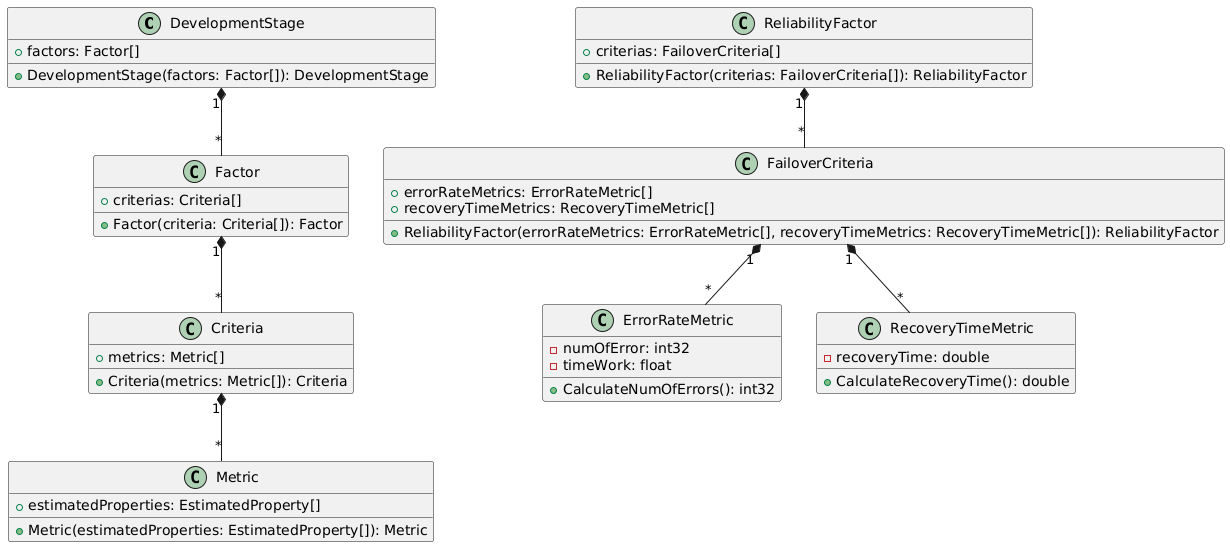
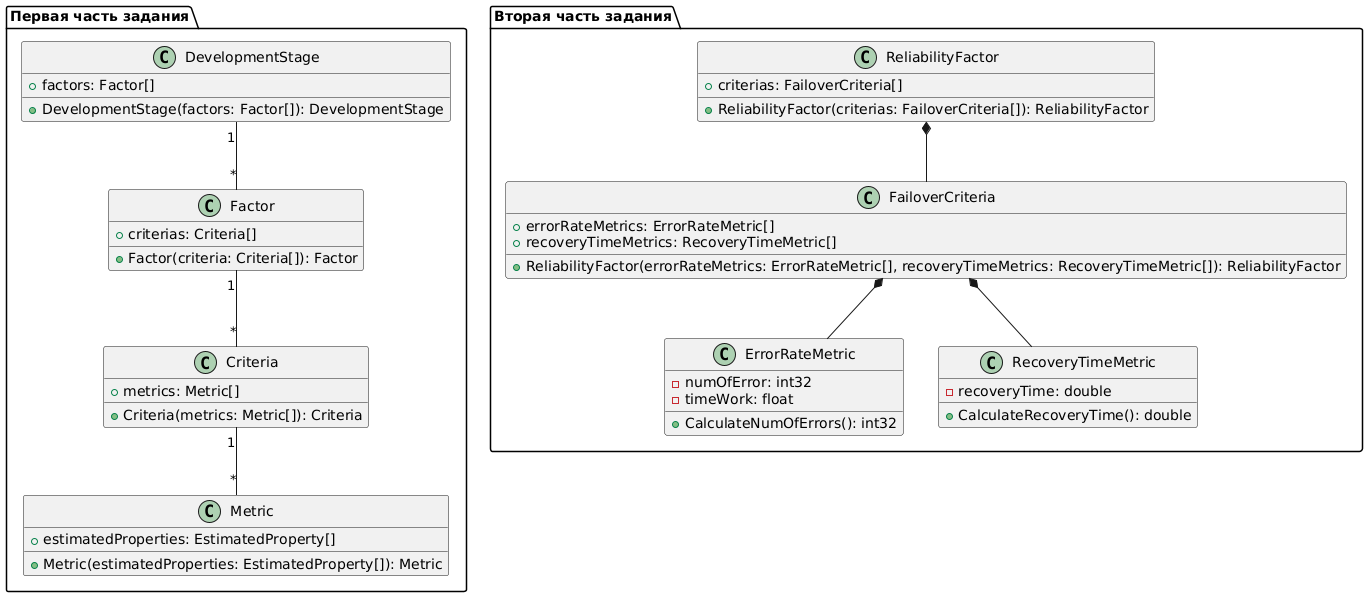
Case 1

Changed region(s): [[0.0, 0.0, 1.0, 0.777], [0.0, 0.5283, 0.3707, 0.9945]]

diff --git a/case/task1/main.tex b/case/task1/main.tex
@@ -1,13 +1,14 @@
 \documentclass{article}
-\usepackage[T2A]{fontenc}
 \usepackage[utf8]{inputenc}
+\usepackage[T2A]{fontenc}
 \usepackage[russian]{babel}
+\usepackage{amsmath}
 \usepackage{graphicx}
 
 \begin{document}
 
-\title{Практика № 1}
-\author{Ращупкин Е., Боков Е., Мишунин Н.}
+\title{Практика 1}
+\author{Ращупкин Е, Боков Е, Мишунин Н}
 \maketitle
 
 \section{Задача 1}
@@ -98,6 +99,53 @@ File "0.." o-- "1" Cluster
     \item Выделите классы и постройте модель предметной области для программы-ежедневника для посетителей.
 \end{itemize}
 
+\begin{verbatim}
+@startuml
+class DailySchedule {
++ date: DateTime
++ appointments: Appointment[]
++ addAppointment(appointment: Appointment)
++ removeAppointment(appointment: Appointment)
++ viewAppointments()
+}
+class Appointment {
++ id: int
++ date: DateTime
++ ambulance: Ambulance
++ doctor: Doctor
++ patient: Patient
++ description: string
++ getDetails(id: int): string
+}
+class Doctor {
++ id: int
++ name: string
++ createAppointment(patient: Patient, date: DateTime, description: string)
+}
+class Patient {
++ id: int
++ name: string
++ bookAppointment(doctor: Doctor, date: DateTime)
++ bookAppointment(doctorId: int, date: DateTime)
+}
+class Ambulance {
++ name: string
++ getDoctorById(doctor_id: int)
+}
+
+class Recipe {
++ createAppointment(patient: Patient, doctor: Doctor): Appointment
+}
+DailySchedule o-- Appointment
+Appointment -- Doctor
+Appointment -- Patient
+Doctor --* Ambulance
+Recipe --o Doctor
+@enduml
+\end{verbatim}
+
+\includegraphics[width=\textwidth]{2.png}
+
 \section{Задача 3}
 В межгосударственном стандарте по оценке качества программных средств ГОСТ 28195-89 качество характеризуется набором факторов. На каждом из этапов разработки программного средства фактор описывается набором критериев. Каждый критерий измеряется с помощью нескольких метрик, различающихся для этапов разработки.
 
@@ -108,54 +156,59 @@ File "0.." o-- "1" Cluster
 
 \begin{verbatim}
 @startuml
-class DevelopmentStage {
-    +factors: Factor[]
-    +DevelopmentStage(factors: Factor[]): DevelopmentStage
+package "Первая часть задания" {
+    class DevelopmentStage {
+        +factors: Factor[]
+        +DevelopmentStage(factors: Factor[]): DevelopmentStage
+    }
+
+    class Factor {
+        +criterias: Criteria[]
+        +Factor(criteria: Criteria[]): Factor
+    }
+
+    class Criteria {
+        +metrics: Metric[]
+        +Criteria(metrics: Metric[]): Criteria
+    }
+
+    class Metric {
+        +estimatedProperties: EstimatedProperty[]
+        +Metric(estimatedProperties: EstimatedProperty[]): Metric
+    }
 }
 
-class Factor {
-    +criterias: Criteria[]
-    +Factor(criteria: Criteria[]): Factor
+package "Вторая часть задания" {
+    class ReliabilityFactor {
+        +criterias: FailoverCriteria[]
+        +ReliabilityFactor(criterias: FailoverCriteria[]): ReliabilityFactor
+    }
+
+    class FailoverCriteria {
+        +errorRateMetrics: ErrorRateMetric[]
+        +recoveryTimeMetrics: RecoveryTimeMetric[]
+        +ReliabilityFactor(errorRateMetrics: ErrorRateMetric[], \
+recoveryTimeMetrics: RecoveryTimeMetric[]): ReliabilityFactor
+    }
+
+    class ErrorRateMetric {
+        -numOfError: int32
+        -timeWork: float
+        +CalculateNumOfErrors(): int32
+    }
+
+    class RecoveryTimeMetric {
+        -recoveryTime: double
+        +CalculateRecoveryTime(): double
+    }
 }
 
-class Criteria {
-    +metrics: Metric[]
-    +Criteria(metrics: Metric[]): Criteria
-}
-
-class Metric {
-    +estimatedProperties: EstimatedProperty[]
-    +Metric(estimatedProperties: EstimatedProperty[]): Metric
-}
-
-class ReliabilityFactor {
-    +criterias: FailoverCriteria[]
-    +ReliabilityFactor(criterias: FailoverCriteria[]): ReliabilityFactor
-}
-
-class FailoverCriteria {
-    +errorRateMetrics: ErrorRateMetric[]
-    +recoveryTimeMetrics: RecoveryTimeMetric[]
-    +ReliabilityFactor(errorRateMetrics: ErrorRateMetric[], recoveryTimeMetrics: RecoveryTimeMetric[]): ReliabilityFactor
-}
-
-class ErrorRateMetric {
-    -numOfError: int32
-    -timeWork: float
-    +CalculateNumOfErrors(): int32
-}
-
-class RecoveryTimeMetric {
-    -recoveryTime: double
-    +CalculateRecoveryTime(): double
-}
-
-DevelopmentStage "1" *-- "*" Factor
-Factor "1" *-- "*" Criteria
-Criteria "1" *-- "*" Metric
-ReliabilityFactor "1" *-- "*" FailoverCriteria
-FailoverCriteria "1" *-- "*" ErrorRateMetric
-FailoverCriteria "1" *-- "*" RecoveryTimeMetric
+DevelopmentStage "1" -- "*" Factor
+Factor "1" -- "*" Criteria
+Criteria "1" -- "*" Metric
+ReliabilityFactor *-- FailoverCriteria
+FailoverCriteria  *-- ErrorRateMetric
+FailoverCriteria *-- RecoveryTimeMetric
 @enduml
 \end{verbatim}
 
@@ -246,17 +299,22 @@ class ConnectionManager {
 }
 'Аудиоплееры состоят из менеджера плагинов
 AudioPlayer "1" *-- "1" PluginManager
-'Аудиоплееры состоят из пользовательского интерфейса, который обрабатывает пользовательский ввод
+'Аудиоплееры состоят из пользовательского интерфейса, 
+'который обрабатывает пользовательский ввод
 AudioPlayer "1" *-- "1" UserInterface
 'Аудиоплееры состоят из мультимедиа-библиотеки
 AudioPlayer "1" *-- "1" MediaLibrary
-'Уточните описание управляющего компонента, чтобы в нем присутствовал менеджер сетевых подключений
+'Уточните описание управляющего компонента, 
+'чтобы в нем присутствовал менеджер сетевых подключений
 PluginManager "1" *-- "1" ConnectionManager
-'Менеджер плагинов может, используя менеджер соединений, подключаться к серверу с целью проверки обновлений установленных плагинов
+'Менеджер плагинов может, используя менеджер соединений, 
+'подключаться к серверу с целью проверки обновлений установленных плагинов
 PluginManager "1" o-- "0..*" Plugin 
-'Плагин может через менеджера зарегистрировать себя в качестве обработчика этих событий
+'Плагин может через менеджера зарегистрировать себя 
+'в качестве обработчика этих событий
 Plugin "1" ..|> "0..1" Listener
-'PluginManager реализует интерфейс Subject с общедоступным свойством listeners типа Listener
+'PluginManager реализует интерфейс Subject 
+'с общедоступным свойством listeners типа Listener
 PluginManager "1" ..|> "0..*" Listener
 @enduml
 \end{verbatim}
@@ -269,16 +327,32 @@ PluginManager "1" ..|> "0..*" Listener
 
 \includegraphics[width=\textwidth]{task5.png}
 
-$ S = \frac{(5 + 5 + 5) + (1 + 3 + 2)}{1 + 3 + \sqrt{1 + 3}} = 3.5 $
+$$S = \frac{(5 + 5 + 5) + (1 + 3 + 2)}{1 + 3 + \sqrt{1 + 3}} = 3.5$$
+
+Согласно таблице диапазонов предпочтительных оценок для диаграммы в UML, диапазон предпочтительных оценок диаграммы классов без атрибутов и операций 3–3.5. В нашем случае оценка S = 3.5. Значение оценки является предпочтительным значением диаграммы.
 
 \section{Задача 6}
 Рассчитать оценку диаграммы классов, сделать вывод
 
 \includegraphics[width=\textwidth]{task6.png}
 
+$$S_{\text{Работодатель}} = \frac{\sqrt{2} + \sqrt{0}}{0.3 \cdot (2 + 0)} = 2.36$$
+$$S_{\text{БДСтудентов}} = \frac{\sqrt{2} + \sqrt{4}}{0.3 \cdot (2 + 4)} = 2.53$$
+$$S_{\text{Студент}} = \frac{\sqrt{0} + \sqrt{1}}{0.3 \cdot (0 + 1)} = 3.33$$
+$$S = \frac{(5 + 5 + 5 + 5 + 5 + 5) + (2.36 + 2.53 + 3.33) + (1 + 1 + 3 + 2 + 2)} {1 + 6 + \sqrt{1 + 4}} = 5.11$$
+
+Согласно таблице диапазонов предпочтительных оценок для диаграммы c атрибутами и операциями в UML, диапазон предпочтительных оценок диаграммы классов без атрибутов и операций 5–5.5. В нашем случае оценка S = 5.11. Значение оценки является предпочтительным значением диаграммы.
+
 \section{Задача 7}
 Рассчитать оценку диаграммы классов, сделать вывод
 
 \includegraphics[width=\textwidth]{task7.png}
+
+$$S_{\text{Деканат}} = \frac{\sqrt{0} + \sqrt{2}}{0.3 \cdot (0 + 2)} = 2.36$$
+$$S_{\text{Группа}} = \frac{\sqrt{0} + \sqrt{4}}{0.3 \cdot (0 + 4)} = 3.33$$
+$$S_{\text{ПользовательСистемы}} = \frac{\sqrt{1} + \sqrt{8}}{0.3 \cdot (1 + 8)} = 1.4$$
+$$S = \frac{(5 + 5 + 5 + 5 + 5) + (2.36 + 3.33 + 1.4) + (1 + 1 + 2 + 2 + 2)}{1 + 5 + \sqrt{1 + 3}} = 5.01$$
+
+Согласно таблице диапазонов предпочтительных оценок для диаграммы c атрибутами и операциями в UML, диапазон предпочтительных оценок диаграммы классов без атрибутов и операций 5–5.5. В нашем случае оценка S = 5.01. Значение оценки является предпочтительным значением диаграммы.
 
 \end{document}
